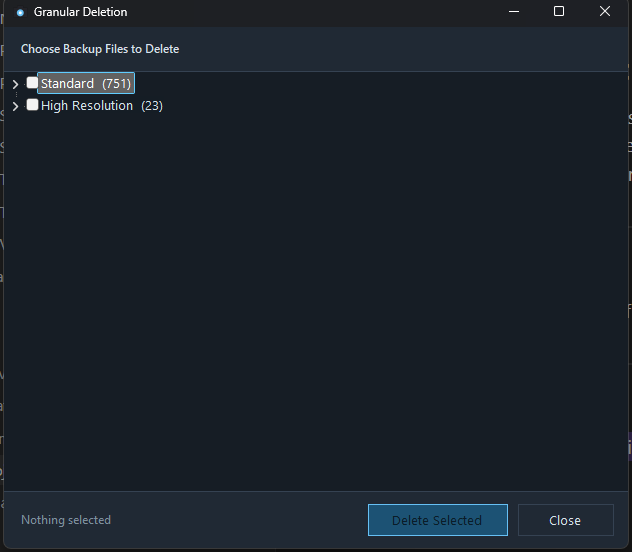
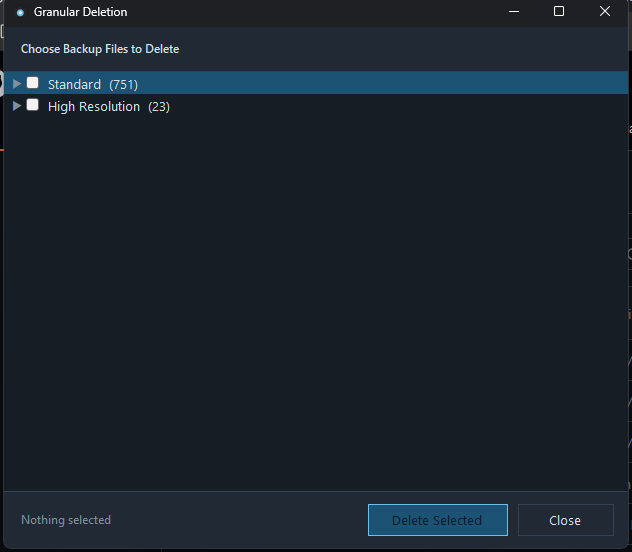
v3.7.1: fix Granular Deletion checkbox sync/highlighting, reorganize race
Granular Deletion: checking/unchecking a file or folder now properly syncs
the ancestor checkboxes (a game folder shows checked only once every file
under it is), and the row highlight now spans the full row width instead of
a narrow strip around the label text. Both required switching the tree to
full owner-draw, since .NET drops native checkbox/glyph rendering entirely
once any owner-draw mode is on, so the checkbox and expand glyph are now
drawn by hand too.

Settings: fixed a race where changing the folder layout persisted the new
FolderTemplate before the background file-move task (kicked off via
Task.Run) had actually finished, risking a scan reading the new template
against a not-yet-reorganized disk layout. The reorganize now runs through
the same blocking ProgressWindow used elsewhere in this file (e.g. backup
migration), so the setting is only saved once the move is done.

Regenerated docs/img/targeted-delete.png to show the fixed highlighting.

diff --git a/app/TargetedDeleteWindow.cs b/app/TargetedDeleteWindow.cs
@@ -52,10 +52,12 @@ namespace SteamScreenshotBackup
                 ForeColor = Theme.Text,
                 BorderStyle = BorderStyle.None,
                 HideSelection = true,
-                ShowLines = true,
-                ItemHeight = 22
+                ShowLines = false,
+                ItemHeight = 22,
+                DrawMode = TreeViewDrawMode.OwnerDrawAll
             };
             _tree.AfterCheck += OnAfterCheck;
+            _tree.DrawNode += OnDrawNode;
             Theme.ApplyScrollbars(_tree);
 
             var bottom = new Panel { Dock = DockStyle.Bottom, Height = 56, BackColor = Theme.Panel };
@@ -140,6 +142,47 @@ namespace SteamScreenshotBackup
             UpdateSummary();
         }
 
+        // TreeNode.BackColor only paints behind the text label by default, so a
+        // game/type row's highlight looked like a narrow strip instead of a full row.
+        // .NET's TreeView also drops its native checkbox/glyph drawing entirely once any
+        // owner-draw mode is turned on, so full ownership means painting the checkbox and
+        // expand glyph by hand too \u2014 hit-testing for both stays native either way.
+        private void OnDrawNode(object sender, DrawTreeNodeEventArgs e)
+        {
+            bool selected = (e.State & TreeNodeStates.Selected) != 0 && _tree.Focused;
+            Color bg = selected
+                ? Theme.Selection
+                : (e.Node.BackColor == Color.Empty ? Theme.Background : e.Node.BackColor);
+            using (var b = new SolidBrush(bg))
+                e.Graphics.FillRectangle(b, new Rectangle(0, e.Bounds.Top, _tree.ClientSize.Width, e.Bounds.Height));
+
+            // OwnerDrawAll hands us a Bounds that ignores indentation, so the whole row
+            // \u2014 glyph, checkbox, and label \u2014 is laid out here by hand, one level's
+            // worth of indent at a time.
+            int x = 6 + e.Node.Level * _tree.Indent;
+
+            if (e.Node.Nodes.Count > 0)
+            {
+                var glyphRect = new Rectangle(x, e.Bounds.Top, 16, e.Bounds.Height);
+                TextRenderer.DrawText(e.Graphics, e.Node.IsExpanded ? "\u25BC" : "\u25B6", Theme.SmallFont,
+                    glyphRect, Theme.TextDim, TextFormatFlags.HorizontalCenter | TextFormatFlags.VerticalCenter);
+            }
+            x += 16;
+
+            var cbState = e.Node.Checked
+                ? System.Windows.Forms.VisualStyles.CheckBoxState.CheckedNormal
+                : System.Windows.Forms.VisualStyles.CheckBoxState.UncheckedNormal;
+            var cbSize = CheckBoxRenderer.GetGlyphSize(e.Graphics, cbState);
+            var cbLoc = new Point(x, e.Bounds.Top + (e.Bounds.Height - cbSize.Height) / 2);
+            CheckBoxRenderer.DrawCheckBox(e.Graphics, cbLoc, cbState);
+            x += cbSize.Width + 6;
+
+            Color fg = e.Node.ForeColor == Color.Empty ? Theme.Text : e.Node.ForeColor;
+            var textRect = new Rectangle(x, e.Bounds.Top, Math.Max(0, _tree.ClientSize.Width - x), e.Bounds.Height);
+            TextRenderer.DrawText(e.Graphics, e.Node.Text, e.Node.NodeFont ?? Font, textRect, fg,
+                TextFormatFlags.Left | TextFormatFlags.VerticalCenter);
+        }
+
         // ------------------------------------------------------------- checking
 
         private void OnAfterCheck(object sender, TreeViewEventArgs e)
@@ -148,6 +191,7 @@ namespace SteamScreenshotBackup
             if (e.Action == TreeViewAction.Unknown) return;   // programmatic change
             _cascading = true;
             CheckAllChildren(e.Node, e.Node.Checked);
+            SyncAncestors(e.Node.Parent);
             _cascading = false;
             UpdateSummary();
         }
@@ -158,6 +202,18 @@ namespace SteamScreenshotBackup
             {
                 child.Checked = value;
                 CheckAllChildren(child, value);
+            }
+        }
+
+        // A parent node's checkbox should mirror its children: fully checked once every
+        // child is, and cleared as soon as one isn't \u2014 otherwise checking/unchecking
+        // individual files leaves the game/type row's box out of sync with reality.
+        private static void SyncAncestors(TreeNode node)
+        {
+            while (node != null)
+            {
+                node.Checked = node.Nodes.Count > 0 && AllChecked(node);
+                node = node.Parent;
             }
         }
 

diff --git a/app/SettingsWindow.cs b/app/SettingsWindow.cs
@@ -2,7 +2,6 @@ using System;
 using System.Drawing;
 using System.IO;
 using System.Linq;
-using System.Threading.Tasks;
 using System.Windows.Forms;
 
 namespace SteamScreenshotBackup
@@ -539,7 +538,8 @@ namespace SteamScreenshotBackup
                         if (applyTemplate)
                         {
                             var engine = _app.Engine;
-                            Task.Run(() => engine.ReorganizeLayout(oldTemplate, newTemplate));
+                            ProgressWindow.Run(this, "Reorganizing Backup\u2026", "Moving files into the new folder layout\u2026",
+                                progress => engine.ReorganizeLayout(oldTemplate, newTemplate));
                         }
                     }
                 }
